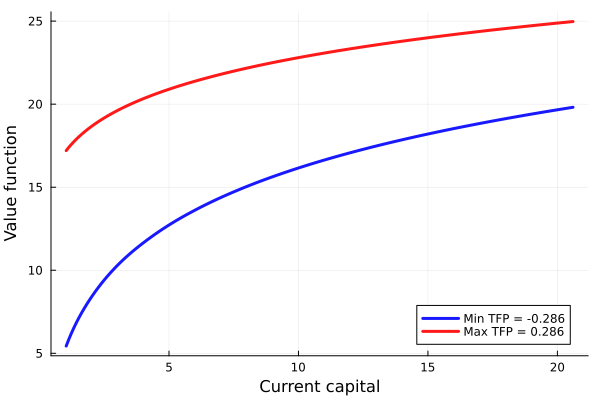
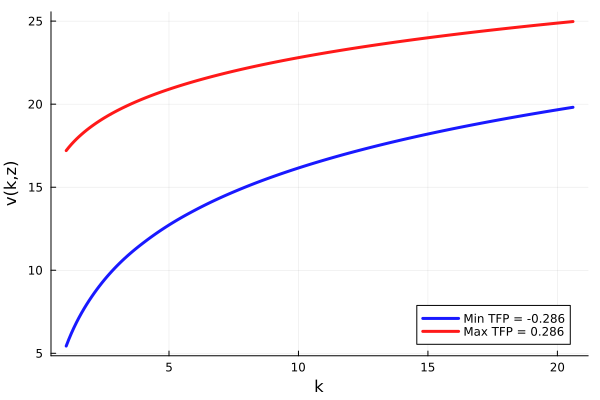
committed WIP

Changed region(s): [[0.0, 0.3, 0.03, 0.6], [0.42, 0.93, 0.63, 0.99]]

diff --git a/ProblemSets/PS4/PS4.tex b/ProblemSets/PS4/PS4.tex
@@ -1,0 +1,242 @@
+\documentclass[11pt]{article}
+
+%%METADATA
+\title{GA1025 Macro Theory \\Solution to Problem Set 4}
+\author{
+Junbiao Chen\thanks{E-mail: jc14076@nyu.edu.}
+}
+\date{\today}
+
+
+%%PACKAGES
+\usepackage{mdframed} % For boxed environments
+\usepackage{graphicx}
+\usepackage{grffile}
+\usepackage{tabularx}
+\usepackage{setspace}
+\usepackage{amsmath,amsthm,amssymb}
+\usepackage[hyphens]{url}
+\usepackage{natbib}
+\usepackage[font=normalsize,labelfont=bf]{caption}
+\usepackage[margin=1in]{geometry}
+\usepackage{hyperref}
+\hypersetup{colorlinks=true,urlcolor=blue,citecolor=blue}
+\usepackage{stmaryrd}  %Package with \boxast command
+\usepackage{enumerate}% http://ctan.org/pkg/enumerate %Supports lowercase Roman-letter enumeration
+\usepackage{verbatim} %Package with \begin{comment} environment
+%\usepackage{enumitem}
+\usepackage{physics}
+\usepackage{tikz}
+\usepackage{listings}
+\usepackage{upquote}
+\usepackage{booktabs} %Package with \toprule and \bottomrule
+\usepackage{etoc}     %Package with \localtableofcontents
+\usepackage{placeins}    %Package that prevent repositioning the tables
+\usepackage{multicol}
+\usepackage{bm}
+\usepackage{subfig}
+\usepackage{csquotes}
+
+\definecolor{dkgreen}{rgb}{0,0.6,0}
+\definecolor{gray}{rgb}{0.5,0.5,0.5}
+\definecolor{mauve}{rgb}{0.58,0,0.82}
+
+\lstset{language=bash,
+  frame=tb,
+  aboveskip=3mm,
+  belowskip=3mm,
+  showstringspaces=false,
+  columns=flexible,
+  basicstyle={\small\ttfamily},
+  numbers=none,
+  numberstyle=\tiny\color{gray},
+  keywordstyle=\color{blue},
+  commentstyle=\color{dkgreen},
+  stringstyle=\color{mauve},
+  breaklines=true,
+  breakatwhitespace=false,
+  tabsize=3
+}
+
+\lstset{language=C,
+  aboveskip=3mm,
+  belowskip=3mm,
+  showstringspaces=false,
+  columns=flexible,
+  basicstyle={\small\ttfamily},
+  numbers=none,
+  numberstyle=\tiny\color{gray},
+  keywordstyle=\color{blue},
+  commentstyle=\color{dkgreen},
+  stringstyle=\color{mauve},
+  breaklines=true,
+  breakatwhitespace=false,
+  tabsize=4
+}
+
+\definecolor{lightblue}{rgb}{0.68, 0.85, 0.9} %
+
+%CUSTOM DEFINITIONS
+\theoremstyle{definition}
+\newtheorem{definition}{Definition}[section]
+\newtheorem*{remark}{Remark}
+\setcounter{secnumdepth}{3}
+\usepackage{tikz}
+\usetikzlibrary{arrows.meta}
+\usetikzlibrary{automata, positioning, arrows, calc}
+
+\tikzset{
+	->,  % makes the edges directed
+	>=stealth, % makes the arrow heads bold
+	shorten >=2pt, shorten <=2pt, % shorten the arrow
+	node distance=3cm, % specifies the minimum distance between two nodes. Change if n
+	every state/.style={draw=blue!55,very thick,fill=blue!20}, % sets the properties for each ’state’ n
+	initial text=$ $, % sets the text that appears on the start arrow
+ }
+
+%% PROPOSITION
+% Define the Proposition environment
+\newmdenv[
+  innerleftmargin=10pt, 
+  innerrightmargin=10pt,
+  innertopmargin=10pt,
+  innerbottommargin=10pt,
+  linecolor=black, 
+  linewidth=1pt,
+  backgroundcolor=white, 
+  roundcorner=5pt
+]{propositionbox}
+
+\newtheoremstyle{boldtitle} % Define a new theorem style
+  {10pt} % Space above
+  {10pt} % Space below
+  {\itshape} % Body font
+  {} % Indent amount
+  {\bfseries} % Theorem head font
+  {.} % Punctuation after theorem head
+  { } % Space after theorem head
+  {} % Theorem head spec
+
+\theoremstyle{boldtitle} % Use the custom style
+\newtheorem{proposition}{Proposition} % Define the proposition environment
+
+% Redefine the proposition environment to use the box
+\newenvironment{boxedproposition}[1][]
+{\begin{propositionbox}\begin{proposition}[#1]}
+{\end{proposition}\end{propositionbox}}
+
+%%FORMATTING
+\usepackage[bottom]{footmisc}
+\onehalfspacing
+\numberwithin{equation}{section}
+\numberwithin{figure}{section}
+\numberwithin{table}{section}
+\bibliographystyle{../bib/aeanobold-oxford}
+
+
+%main text
+\begin{document}
+
+\maketitle
+
+\section*{Exercise 2.1 from RMT5}
+\paragraph{Solution} 
+For the Markov chain 
+\[
+(\mathbf{P}, \pi_0) = 
+\left(\left[
+\begin{matrix}
+  0.9 &  0.1 \\ 0.3 &  0.7  
+\end{matrix}
+\right], 
+\left[
+\begin{matrix}
+    0.5 \\ 0.5
+\end{matrix}
+\right]
+\right)
+\]
+random variable $y_t = \bar{y}' x_t$, where $\bar{y}' = [1,5]$.
+
+The likelihood function of the data is given by 
+\begin{itemize}
+    \item(a) $L = 0.5 P_{12}^2 P_{21}^2 = 0.5 \cdot 0.1^2 \codt 0.3^2$
+    \item(b) $L = 0.5 P_{11}^4 = 0.5 \cdot 0.9^4$
+    \item(c) $L = 0.5 P_{22}^4 = 0.5 \cdot 0.7^4$
+\end{itemize}
+
+\section*{Exercise 2.2 from RMT5}
+\subsection*{(a)} Assume the transition probability matrix is 
+\[
+\left[
+\begin{matrix}
+  p&  (1-p) \\ (1-q) &  q 
+\end{matrix}
+\right]
+\]
+Then we have 
+\begin{align*}
+    p + 5(1-p) & = 1.8 \\
+    (1 - q) + 5q & = 3.4
+\end{align*}
+Solving them, we have $p = 0.8$ and $q = 0.6$.
+
+\subsection*{(a)} In this problem, we use the cross-sectional data to compute the prabability matrix.
+Assume the transition probability matrix is 
+\[
+\left[
+\begin{matrix}
+  p&  (1-p) \\ (1-q) &  q 
+\end{matrix}
+\right]
+\]
+Then we have 
+\begin{align*}
+    p + 5(1-p) & = 1.8 \\
+    p^2 + 5 p(1-p) + (1-p)(1-q) + 5(1-p)q & = 2.12 \\
+\end{align*}
+Solving them, we have $p = 0.8$ and $q = 0.6$.
+
+\section*{Exercise 2.3 from RMT5}
+\paragraph{Q1 Solution}
+Note that $\mathbb{E}(y_t|x_0) = \mathbf{P}^t \bar{y}$.
+Denote $u(c_t)$ by $u_t$.
+Then we have 
+\begin{align*}
+    \bar{v} & = \mathbb{E}(\sum_{t=0}^{\infty}\beta^t u_t |x_0) \\ 
+        & = \sum_{t=0}^{\infty}\beta^t  \mathbb{E}(u_t |x_0) \\ 
+        & = \sum_{t=0}^{\infty}\beta^t  \mathbf{P}^t \bar{u} \\ 
+        & = (I - \beta  \mathbf{P})^{-1} \bar{u}
+\end{align*}
+By the law of total probability, we can express the unconditional expected value starting at time 0 as:
+\begin{align*}
+    V & = \mathbb{E}[v_0] \\ 
+     & = \mathbb{E}[\bar{v}' x_0] \quad \text{ (by definition)}\\
+     & = \sum_{i=1}^{n} \bar{v}_i \text{Pr}(x_0 = e_i) \\
+     & = \sum_{i=1}^{n} \bar{v}_i \pi_{0,i} 
+\end{align*}
+
+\paragraph{Q2 Solution}
+Based on the results in Q1, we only need to compute $\pi_0' (I - \beta P)^{-1}$ and then compare
+Since 
+\[
+\left[
+\begin{matrix}
+  1-\beta & 0 \\ 0 &  1 - \beta
+\end{matrix}
+\right]^{-1} 
+= 
+\left[
+\begin{matrix}
+  1-\frac{1}{2}\beta & -\frac{1}{2}\beta \\ -\frac{1}{2}\beta &  1 -\frac{1}{2}\beta
+\end{matrix}
+\right]^{-1} 
+\]
+We can conclude that processes 1 and 2 yeild the same unconditional expected value for both 
+$\gamma = 2.5$ and $4$.
+
+
+%% =========== %% ========= %%
+\bibliography{../bib/references.bib}
+
+\end{document}
